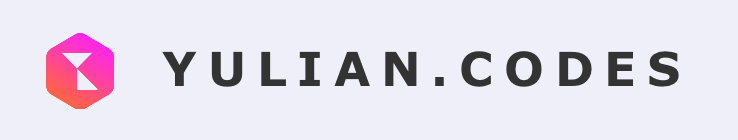
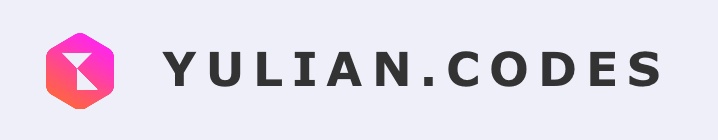
changes

diff --git a/README.md b/README.md
@@ -32,7 +32,7 @@ Currently interested in interface design and artificial intelligence.
 ## Find me on
 
 <p align="left">
-  <a href="https://yulian.codes"><img height="31" src="./assets/images/site-badge.png" style="float: left; margin-right: 4px" /></a>
+  <a href="https://yulian.codes"><img height="28" src="./assets/images/site-badge.png" style="float: left; margin-right: 4px" /></a>
   <a href="https://www.linkedin.com/in/yulian-kraynyak/"><img src="https://img.shields.io/badge/Linkedin-0077B5?style=for-the-badge&logo=linkedin&logoColor=eeeff9" style="float: left" /></a>
 </p>
 
